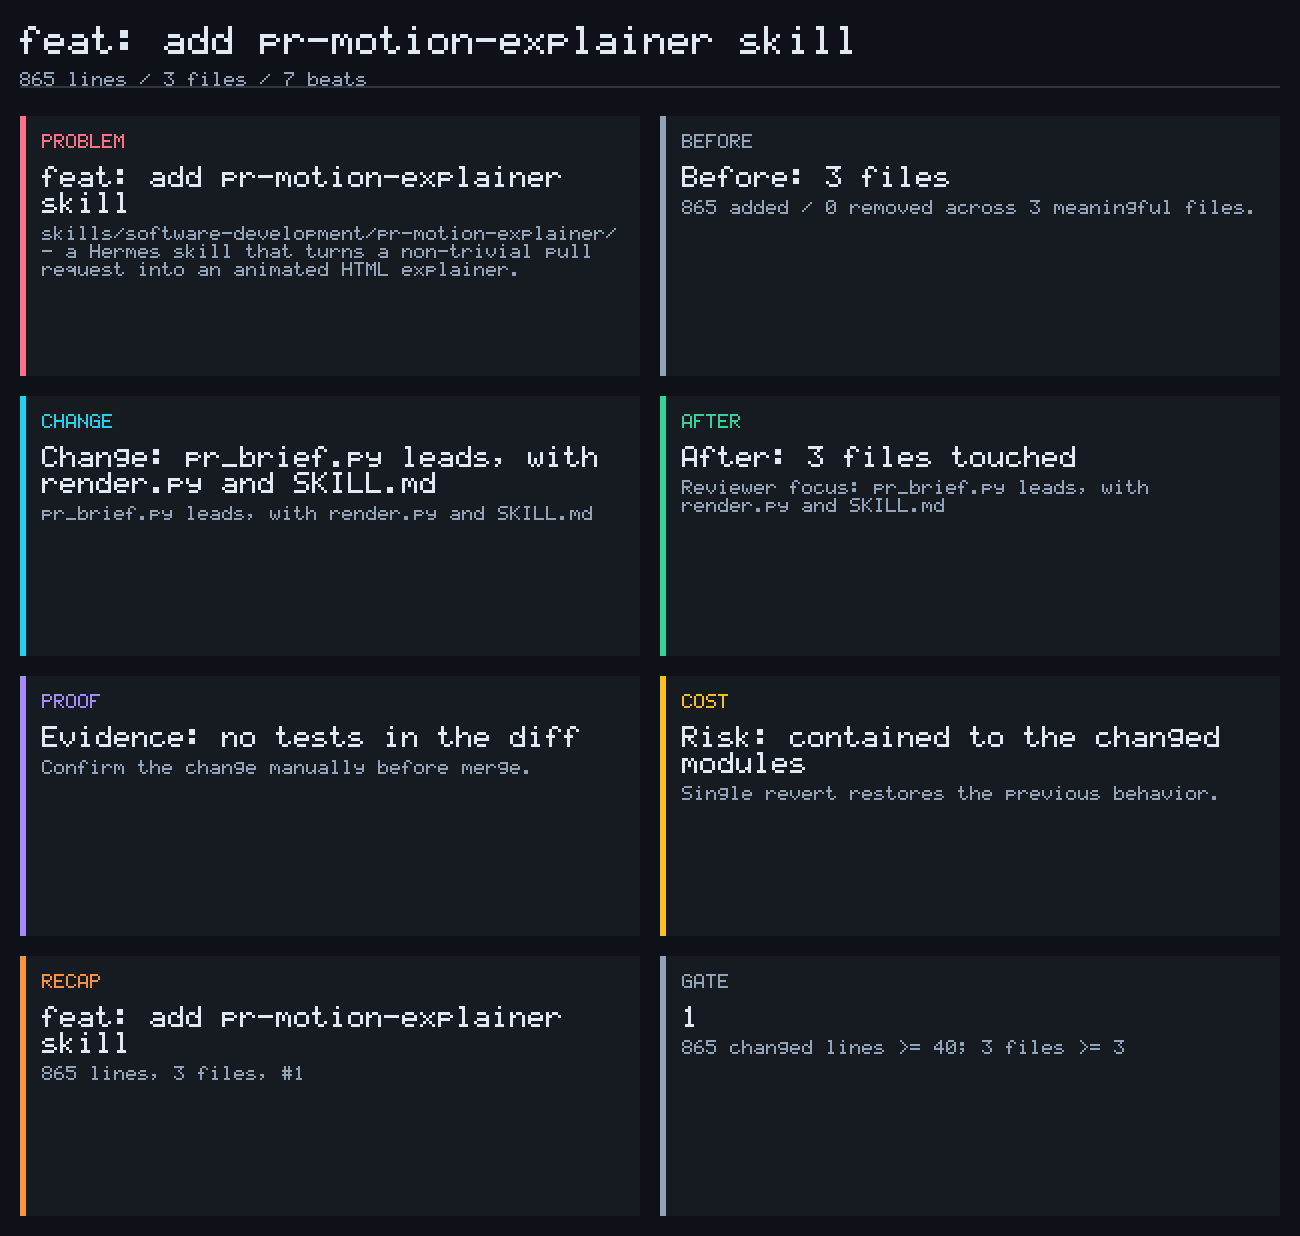
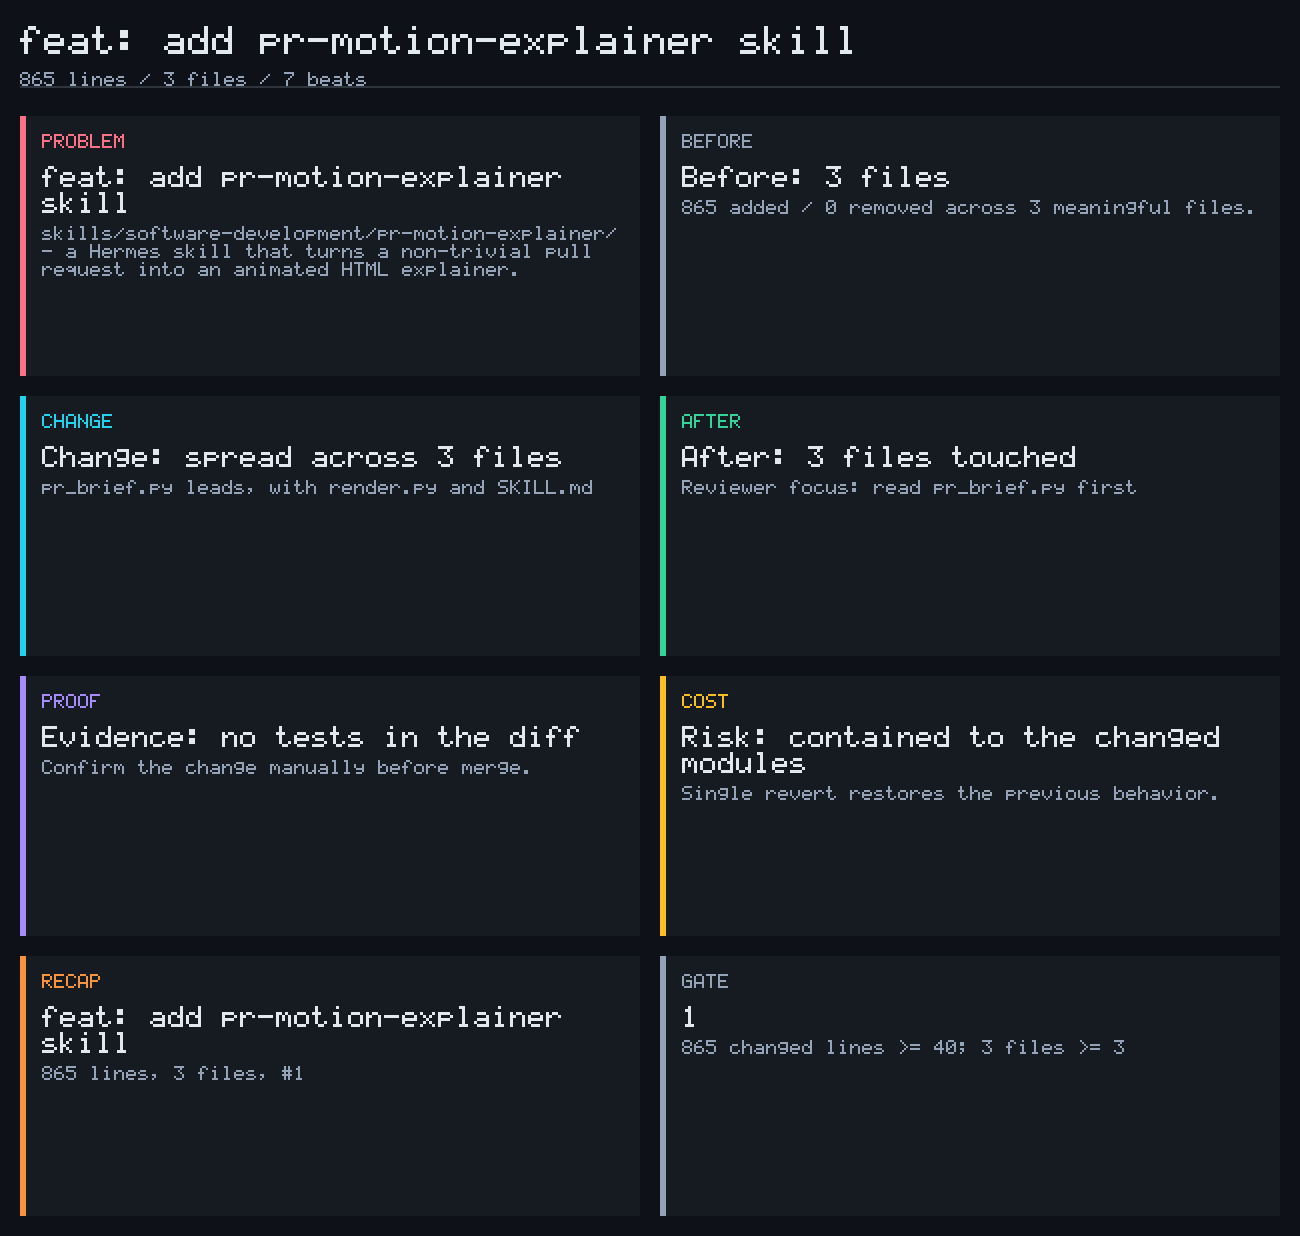
fix: separate gate triggers from misses, and dedupe change/after beats
Four defects found by re-running the skill end to end after the README was
written:

- `change` and `after` printed the same `describe_shape()` clause on a
  no-signal diff -- headline, detail, and reviewer-focus line all identical.
  This was visible in PR #1's own demo. `change` now names the character of
  the change; `after` points at the file to read first.
- The file-count trigger was overridden by a line floor inside `judge()`, so
  a 3-file diff reported `3 files >= 3` as a reason while still judging itself
  trivial and writing no beats. Triggers and misses are now separate lists.
- `requirements*.txt` was swallowed by the `DOC_ONLY` `.txt` rule before the
  dependency gate could see it, so the one dependency file a Python project
  uses never tripped the dependency trigger. Carved out, as manifests already
  are.
- `before` read "1 meaningful files."; plural is now derived.

Also commits `docs/explainers/pr-1-brief.json` so the demo regenerates
byte-for-byte from a fresh checkout -- the documented commands previously
consumed a gitignored scratch file -- and re-syncs the installed skill copy,
which was a pre-fix build missing `poster.py` entirely.

diff --git a/docs/explainers/pr-1-pr-motion-explainer.html b/docs/explainers/pr-1-pr-motion-explainer.html
@@ -119,7 +119,7 @@
     </section>
     <section class="scene" id="scene-2" style="--accent:#22d3ee;--fill:rgba(8,51,68,.45);--delay:11.0s;--span:4.0s">
       <div class="scene-tag">change</div>
-      <h2 class="scene-headline">Change: pr_brief.py leads, with render.py and SKILL.md</h2>
+      <h2 class="scene-headline">Change: spread across 3 files</h2>
       <p class="scene-detail">pr_brief.py leads, with render.py and SKILL.md</p>
       <div class="refs"><span class="ref-path">skills/software-development/pr-motion-explainer/scripts/pr_brief.py</span><code class="ref-line">#!/usr/bin/env python3</code><code class="ref-line">&quot;&quot;&quot;Build a motion-explainer storyboard brief from a pull request or a git range.</code><span class="ref-path">skills/software-development/pr-motion-explainer/scripts/render.py</span><code class="ref-line">#!/usr/bin/env python3</code><code class="ref-line">&quot;&quot;&quot;Render a storyboard brief into a self-contained animated HTML explainer.</code><span class="ref-path">skills/software-development/pr-motion-explainer/SKILL.md</span><code class="ref-line">---</code><code class="ref-line">name: pr-motion-explainer</code></div>
       <div class="counter">3/7</div>
@@ -127,7 +127,7 @@
     <section class="scene" id="scene-3" style="--accent:#34d399;--fill:rgba(6,78,59,.45);--delay:15.0s;--span:4.0s">
       <div class="scene-tag">after</div>
       <h2 class="scene-headline">After: 3 files touched</h2>
-      <p class="scene-detail">Reviewer focus: pr_brief.py leads, with render.py and SKILL.md</p>
+      <p class="scene-detail">Reviewer focus: read pr_brief.py first</p>
       <div class="refs"><span class="ref-path">skills/software-development/pr-motion-explainer/scripts/pr_brief.py</span><span class="ref-path">skills/software-development/pr-motion-explainer/scripts/render.py</span><span class="ref-path">skills/software-development/pr-motion-explainer/SKILL.md</span></div>
       <div class="counter">4/7</div>
     </section>

diff --git a/docs/explainers/pr-1-pr-motion-explainer.static.html b/docs/explainers/pr-1-pr-motion-explainer.static.html
@@ -119,7 +119,7 @@
     </section>
     <section class="scene" id="scene-2" style="--accent:#22d3ee;--fill:rgba(8,51,68,.45);--delay:11.0s;--span:4.0s">
       <div class="scene-tag">change</div>
-      <h2 class="scene-headline">Change: pr_brief.py leads, with render.py and SKILL.md</h2>
+      <h2 class="scene-headline">Change: spread across 3 files</h2>
       <p class="scene-detail">pr_brief.py leads, with render.py and SKILL.md</p>
       <div class="refs"><span class="ref-path">skills/software-development/pr-motion-explainer/scripts/pr_brief.py</span><code class="ref-line">#!/usr/bin/env python3</code><code class="ref-line">&quot;&quot;&quot;Build a motion-explainer storyboard brief from a pull request or a git range.</code><span class="ref-path">skills/software-development/pr-motion-explainer/scripts/render.py</span><code class="ref-line">#!/usr/bin/env python3</code><code class="ref-line">&quot;&quot;&quot;Render a storyboard brief into a self-contained animated HTML explainer.</code><span class="ref-path">skills/software-development/pr-motion-explainer/SKILL.md</span><code class="ref-line">---</code><code class="ref-line">name: pr-motion-explainer</code></div>
       <div class="counter">3/7</div>
@@ -127,7 +127,7 @@
     <section class="scene" id="scene-3" style="--accent:#34d399;--fill:rgba(6,78,59,.45);--delay:15.0s;--span:4.0s">
       <div class="scene-tag">after</div>
       <h2 class="scene-headline">After: 3 files touched</h2>
-      <p class="scene-detail">Reviewer focus: pr_brief.py leads, with render.py and SKILL.md</p>
+      <p class="scene-detail">Reviewer focus: read pr_brief.py first</p>
       <div class="refs"><span class="ref-path">skills/software-development/pr-motion-explainer/scripts/pr_brief.py</span><span class="ref-path">skills/software-development/pr-motion-explainer/scripts/render.py</span><span class="ref-path">skills/software-development/pr-motion-explainer/SKILL.md</span></div>
       <div class="counter">4/7</div>
     </section>

diff --git a/skills/software-development/pr-motion-explainer/scripts/pr_brief.py b/skills/software-development/pr-motion-explainer/scripts/pr_brief.py
@@ -98,8 +98,11 @@ def classify_files(paths: list[str]) -> tuple[list[str], list[str], list[str]]:
         if VENDOR.search(p) or LOCKFILE.search(p):
             ignorable.append(p)
             continue
-        # order matters: a manifest is meaningful even though it ends in .md
-        if DOC_ONLY.search(p) and not MANIFEST.search(p):
+        # order matters: a manifest is meaningful even though it ends in .md,
+        # and a requirements file is meaningful even though it ends in .txt.
+        # Without the carve-out, DOC_ONLY swallows requirements*.txt and a
+        # Python project's dependency change never trips the dependency gate.
+        if DOC_ONLY.search(p) and not MANIFEST.search(p) and not DEPENDENCY_FILE.search(p):
             ignorable.append(p)
             continue
         if CONFIG_NOISE.search(p):
@@ -211,7 +214,8 @@ def build_beats(pr: dict, diff_text: str, files: list[str], signals: list[str],
         {
             "name": "before",
             "headline": f"Before: {file_count_phrase(len(meaningful))}",
-            "detail": f"{added} added / {deleted} removed across {len(meaningful)} meaningful files.",
+            "detail": f"{added} added / {deleted} removed across {len(meaningful)} meaningful "
+                      f"{'file' if len(meaningful) == 1 else 'files'}.",
             "code_refs": [{"path": lead, "hunks": [h for h in hunks(diff_text) if h["path"] == lead][:2]}]
             if lead else [],
         },
@@ -227,7 +231,7 @@ def build_beats(pr: dict, diff_text: str, files: list[str], signals: list[str],
             "name": "after",
             "headline": f"After: {file_count_phrase(len(meaningful))} touched",
             "detail": f"Reviewer focus: {', '.join(signals[:3])}" if signals
-            else f"Reviewer focus: {describe_shape(meaningful)}",
+            else reviewer_focus(meaningful),
             "code_refs": [{"path": p} for p in rank_for_lead(meaningful)[:3]],
         },
     ]
@@ -264,8 +268,13 @@ def describe_change(signals: list[str], changed_lines: int,
                     files: list[str]) -> str:
     if signals:
         return f"Change: {signals[0]}"
+    if not files:
+        return "Change: no reviewable files"
+    # The headline says what kind of change it is; describe_shape already names
+    # the files in the beat's detail, so repeating the list here makes the
+    # headline and the detail read the same line twice.
     if changed_lines >= 200:
-        return f"Change: {describe_shape(files)}"
+        return f"Change: spread across {len(files)} files"
     return "Change: focused edit"
 
 
@@ -303,6 +312,18 @@ def describe_shape(files: list[str]) -> str:
     others = [p.rsplit("/", 1)[-1] for p in ranked[1:4]]
     tail = ", ".join(others[:-1]) + (" and " + others[-1] if len(others) > 1 else "")
     return f"{lead} leads, with {tail}"
+
+
+def reviewer_focus(files: list[str]) -> str:
+    """Where a reviewer should start, as distinct from what the change touched.
+
+    The `change` beat already names the file set; repeating it here gives the
+    reviewer the same sentence twice in a 30-second video. The ranking that
+    picks the lead file is also the reading order, so point at it instead.
+    """
+    if not files:
+        return "Reviewer focus: nothing meaningful to review"
+    return f"Reviewer focus: read {rank_for_lead(files)[0].rsplit('/', 1)[-1]} first"
 
 
 def first_problem_sentence(body: str) -> str:
@@ -343,16 +364,20 @@ def judge(pr: dict, diff_text: str, files: list[str]) -> dict:
     deleted = sum(counts.get(p, (0, 0))[1] for p in meaningful)
     changed = added + deleted
 
-    reasons: list[str] = []
+    # `triggers` are thresholds the diff actually met; `missed` are the ones it
+    # came up against. The two must stay separate: "no meaningful files" is a
+    # statement about the diff, not a trigger, so folding it into the trigger
+    # list made a docs-only diff report a reason while still judging it trivial
+    # -- and the file-count trigger, which fires with no line minimum, was being
+    # silently cancelled by a separate line floor.
+    triggers: list[str] = []
     missed: list[str] = []
-    if not meaningful:
-        reasons.append("no meaningful files (docs/lockfile/vendor only)")
     if changed >= MIN_CHANGED_LINES:
-        reasons.append(f"{changed} changed lines >= {MIN_CHANGED_LINES}")
+        triggers.append(f"{changed} changed lines >= {MIN_CHANGED_LINES}")
     else:
         missed.append(f"{changed} changed lines < {MIN_CHANGED_LINES}")
     if len(meaningful) >= MIN_FILES:
-        reasons.append(f"{len(meaningful)} files >= {MIN_FILES}")
+        triggers.append(f"{len(meaningful)} files >= {MIN_FILES}")
     else:
         missed.append(f"{len(meaningful)} meaningful file(s) < {MIN_FILES}")
 
@@ -360,24 +385,25 @@ def judge(pr: dict, diff_text: str, files: list[str]) -> dict:
     deps = [f for f in meaningful if DEPENDENCY_FILE.search(f)]
     enough_mass = changed >= MIN_LINES_FOR_SENSITIVE
     if sensitive and enough_mass:
-        reasons.append("touches a sensitive path: " + ", ".join(sensitive[:2]))
+        triggers.append("touches a sensitive path: " + ", ".join(sensitive[:2]))
     elif sensitive:
         missed.append(f"sensitive path {sensitive[0]} but only {changed} changed lines "
                       f"< {MIN_LINES_FOR_SENSITIVE}")
     if deps and enough_mass:
-        reasons.append("dependency change: " + ", ".join(
+        triggers.append("dependency change: " + ", ".join(
             DEPENDENCY_FILE.sub("", d).split("/")[0] or d for d in deps[:2]))
     elif deps:
         missed.append(f"dependency change {deps[0]} but only {changed} changed lines "
                       f"< {MIN_LINES_FOR_SENSITIVE}")
 
-    trivial = not reasons or (changed < 5 and not (sensitive and enough_mass)
-                              and not (deps and enough_mass))
+    trivial = not triggers
 
     # A trivial verdict has to say which threshold it came up against, otherwise
     # "too small to animate" gives the reader nothing to argue with or tune.
-    if reasons:
-        stated = reasons
+    if triggers:
+        stated = triggers
+    elif not meaningful:
+        stated = ["no meaningful files (docs/lockfile/vendor only)"]
     elif missed:
         stated = ["too small to animate: " + "; ".join(missed)]
     else:

diff --git a/README.md b/README.md
@@ -83,6 +83,7 @@ skills/software-development/pr-motion-explainer/
     poster.py                 brief JSON -> contact-sheet PNG, no browser needed
     render.py                 brief JSON -> animated HTML
 docs/explainers/
+  pr-1-brief.json                       the brief the demo was rendered from
   pr-1-pr-motion-explainer.html         animated, 31s
   pr-1-pr-motion-explainer.static.html  all beats stacked, for print
   pr-1-contact-sheet.png                7-frame overview poster
@@ -123,19 +124,49 @@ Running the skill against a with-skill/baseline harness found six more, all now 
   `pr_brief.py ... && render.py ...` chain the usage docs recommend aborted
   before rendering. A forced run now exits `0`.
 
+A second pass over the merged branch found four more, all now fixed:
+
+- On a diff that trips no path signal, `change` and `after` printed the same
+  `describe_shape()` clause — headline, detail, and the reviewer-focus line all
+  read "pr_brief.py leads, with render.py and SKILL.md". This was visible in PR
+  #1's own demo. `change` now names the character of the change in its headline
+  and leaves the file list to its detail; `after` points at the file to read
+  first instead of repeating the list.
+- The `before` detail read "1 meaningful files." The plural is now derived.
+- The installed copy at `~/.hermes/skills/` was a pre-fix build: no `poster.py`,
+  the old `judge()` that animated a 900-line lockfile bump, and a `--force` that
+  still exited `3`. It is now byte-identical to the source of record here.
+- The demo regeneration commands consumed a scratch `brief.json` that is
+  gitignored, so a fresh checkout could not reproduce the committed HTML. The
+  brief is now committed at `docs/explainers/pr-1-brief.json` and the commands
+  verified to reproduce both artifacts byte-for-byte.
+- `requirements*.txt` was swallowed by the `DOC_ONLY` `.txt` rule before the
+  dependency gate could see it, so of every dependency file the gate documents
+  as a trigger, the one a Python project actually uses never fired. Dependency
+  files are now carved out of `DOC_ONLY`, the same way skill manifests already
+  are. Lockfiles remain ignored.
+- The file-count trigger was silently overridden by a line floor inside `judge()`.
+  A diff touching 3 meaningful files with only 4 changed lines reported
+  `3 files >= 3` as a *reason* while still judging the diff `TRIVIAL` and writing
+  no beats — the verdict contradicted its own stated reason, and the trigger
+  fires with no line minimum. Triggers and misses are now separate lists, and
+  the "no meaningful files" statement is no longer counted as a trigger.
+
 Not verified: the mp4 rendering path in `references/publishing.md`. `ffmpeg` is not installed in this environment, so that route is documented but untested.
 
 ## Demo assets
 
-`docs/explainers/pr-1-contact-sheet.png` is produced by `poster.py` from `brief.json`. `frames/` holds one PNG per beat, captured at each beat's midpoint by pausing the CSS animations and seeking `currentTime` in a real browser.
+`docs/explainers/pr-1-contact-sheet.png` is produced by `poster.py` from `docs/explainers/pr-1-brief.json`. `frames/` holds one PNG per beat, captured at each beat's midpoint by pausing the CSS animations and seeking `currentTime` in a real browser.
 
 ```bash
 # the poster: stdlib only, reproducible anywhere
-python3 skills/software-development/pr-motion-explainer/scripts/poster.py brief.json --out docs/explainers/pr-1-contact-sheet.png
+python3 skills/software-development/pr-motion-explainer/scripts/poster.py docs/explainers/pr-1-brief.json --out docs/explainers/pr-1-contact-sheet.png
 
 # the animated page and its stacked-for-print variant
-python3 skills/software-development/pr-motion-explainer/scripts/render.py brief.json --out docs/explainers/pr-1-pr-motion-explainer.html
-python3 skills/software-development/pr-motion-explainer/scripts/render.py brief.json --out docs/explainers/pr-1-pr-motion-explainer.static.html --static
+python3 skills/software-development/pr-motion-explainer/scripts/render.py docs/explainers/pr-1-brief.json --out docs/explainers/pr-1-pr-motion-explainer.html
+python3 skills/software-development/pr-motion-explainer/scripts/render.py docs/explainers/pr-1-brief.json --out docs/explainers/pr-1-pr-motion-explainer.static.html --static
 ```
+
+`docs/explainers/pr-1-brief.json` is the brief those commands consume, committed so a fresh checkout reproduces the demo byte-for-byte. The scratch `brief.json` the usage section generates is gitignored and is not that file.
 
 `frames/` needs a browser, so those commands do not regenerate it; the poster is the artifact that is. The static build stacks every beat into one scrolling page, which is what you want in a document and unusable as a video source.
